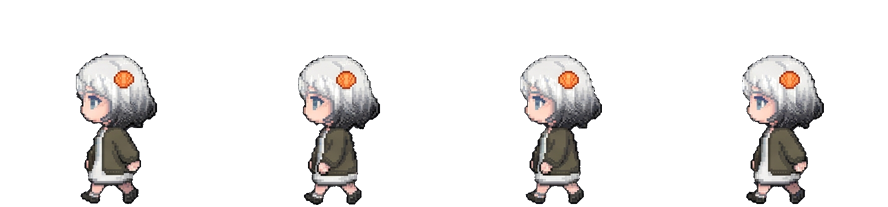
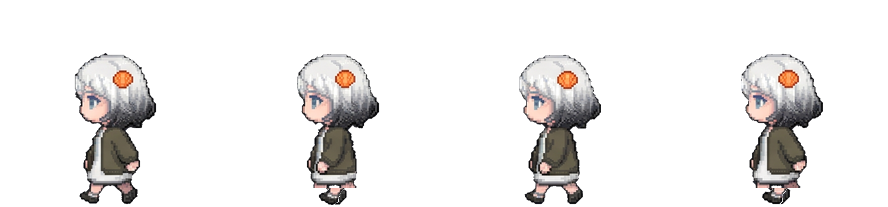
옆모습 걷기에서 다리가 움직이도록 수정
Gemini 옆모습 4장이 모두 같은 다리 자세라서, 2·4번째 프레임의 다리를
몸 가운데로 모은 자세로 바꿈 (벌림 → 모음 → 벌림 → 모음).
같은 처리를 다른 캐릭터에도 쓸 수 있게 side_walk_fix.py 추가.

Claude-Session: https://claude.ai/code/session_01MBgVgKbFxkEXND4zuEcjdV

diff --git a/tools/sprite_cleanup/side_walk_fix.py b/tools/sprite_cleanup/side_walk_fix.py
@@ -1,0 +1,96 @@
+"""옆모습 걷기에 '다리 모음' 프레임을 만들어 넣는다.
+
+Gemini 옆모습 프레임은 모두 다리를 벌린 같은 자세라서, 그대로 이으면 다리가 움직이지 않는다.
+홀수 프레임(1, 3)의 다리 두 개를 몸 가운데로 모으고 몸을 1픽셀 올려,
+벌림 → 모음 → 벌림 → 모음 순서의 걷기를 만든다.
+
+사용: python3 side_walk_fix.py <캐릭터 폴더>
+  walk_right.png를 고치고, walk_left.png는 좌우 반전으로 다시 만든다.
+"""
+import json
+import sys
+from pathlib import Path
+
+import numpy as np
+from PIL import Image
+from scipy import ndimage as ndi
+
+GAP = 3              # 모은 두 다리 중심 사이 거리의 절반
+
+
+def leg_top(alpha, bottom):
+    """아래에서부터 올라가며, 불투명 구간이 두 덩어리(두 다리)로 나뉘는 가장 윗줄을 찾는다."""
+    top = bottom
+    for y in range(bottom - 1, 0, -1):
+        xs = np.nonzero(alpha[y])[0]
+        if xs.size == 0:
+            continue
+        gaps = np.nonzero(np.diff(xs) > 3)[0]
+        if gaps.size >= 1:
+            top = y
+        elif top < bottom - 4:
+            break
+    return top + 1
+
+
+def gather_legs(frame: Image.Image) -> Image.Image:
+    a = np.array(frame)
+    x0, y0, x1, y1 = frame.getbbox()
+    hem = leg_top(a[..., 3] > 0, y1)
+    legs = a[hem:y1].copy()
+    body = a.copy()
+    body[hem:y1] = 0
+
+    lab, n = ndi.label(legs[..., 3] > 0)
+    if n < 2:
+        return frame
+    sizes = ndi.sum(np.ones(lab.shape), lab, range(1, n + 1))
+    biggest = sorted(range(1, n + 1), key=lambda i: -sizes[i - 1])[:2]
+    parts = []
+    for i in biggest:
+        ys, xs = np.nonzero(lab == i)
+        parts.append((xs.mean(), i))
+    parts.sort()
+
+    # 엉덩이 중심 = 밑단 바로 위 줄의 불투명 구간 가운데
+    row = a[hem - 2, :, 3] > 0
+    hip = np.nonzero(row)[0].mean()
+
+    out = np.zeros_like(a)
+    out[:] = body
+    # 몸을 1픽셀 올림 (다리가 모일 때 몸이 가장 높음)
+    out[:-1] = out[1:]
+    out[-1] = 0
+    out[hem - 1] = out[hem - 2] * (out[hem - 2, :, 3:4] > 0)   # 올린 자리 메우기
+    # 뒷다리 먼저, 앞다리를 위에 그림
+    for (cx, i), target in zip(parts, (hip - GAP, hip + GAP)):
+        dx = int(round(target - cx))
+        mask = lab == i
+        ys, xs = np.nonzero(mask)
+        for y, x in zip(ys, xs):
+            nx = x + dx
+            if 0 <= nx < a.shape[1]:
+                out[hem + y, nx] = legs[y, x]
+    return Image.fromarray(out, "RGBA")
+
+
+def main(folder):
+    folder = Path(folder)
+    meta = json.loads((folder / "frames.json").read_text(encoding="utf-8"))
+    cw, ch = meta["cell"]
+    src = Image.open(folder / "walk_right.png")
+    n = meta["animations"]["walk_right"]["frames"]
+    frames = [src.crop((i * cw, 0, i * cw + cw, ch)) for i in range(n)]
+    fixed = [gather_legs(f) if i % 2 == 1 else f for i, f in enumerate(frames)]
+    right = Image.new("RGBA", src.size, (0, 0, 0, 0))
+    left = Image.new("RGBA", src.size, (0, 0, 0, 0))
+    for i, f in enumerate(fixed):
+        right.alpha_composite(f, (i * cw, 0))
+        left.alpha_composite(f.transpose(Image.FLIP_LEFT_RIGHT), (i * cw, 0))
+    right.save(folder / "walk_right.png")
+    left.save(folder / "walk_left.png")
+    print(f"walk_right / walk_left: {n}프레임 중 {len(range(1, n, 2))}개를 다리 모음 자세로 바꿈")
+
+
+if __name__ == "__main__":
+    main(sys.argv[1])

diff --git a/README.md b/README.md
@@ -42,6 +42,7 @@ tests/         test_runner.tscn  자동 점검
   (이 스크립트는 Python과 numpy, scipy, Pillow가 필요합니다.)
   새 시트를 넣을 때는 설정 파일(예: `seoha.json`)에 프레임 위치를 적고 같은 도구로 정리한 뒤,
   `godot --headless --path . -s res://tools/build_spriteframes.gd -- 캐릭터폴더이름` 으로 애니메이션 리소스를 만듭니다.
+- Gemini 옆모습은 모든 프레임이 다리를 벌린 같은 자세라서, `tools/sprite_cleanup/side_walk_fix.py`로 2·4번째 프레임의 다리를 모아 걷는 동작을 만들었습니다. 새 캐릭터 옆모습도 같은 도구를 쓰면 됩니다.
 - 서하 노드는 텍스처 필터가 Linear로 지정되어 있습니다. 원본 그림체를 살리기 위해 1배 크기로 쓰는 것을 기준으로 합니다.
 
 ## 아직 할 일
